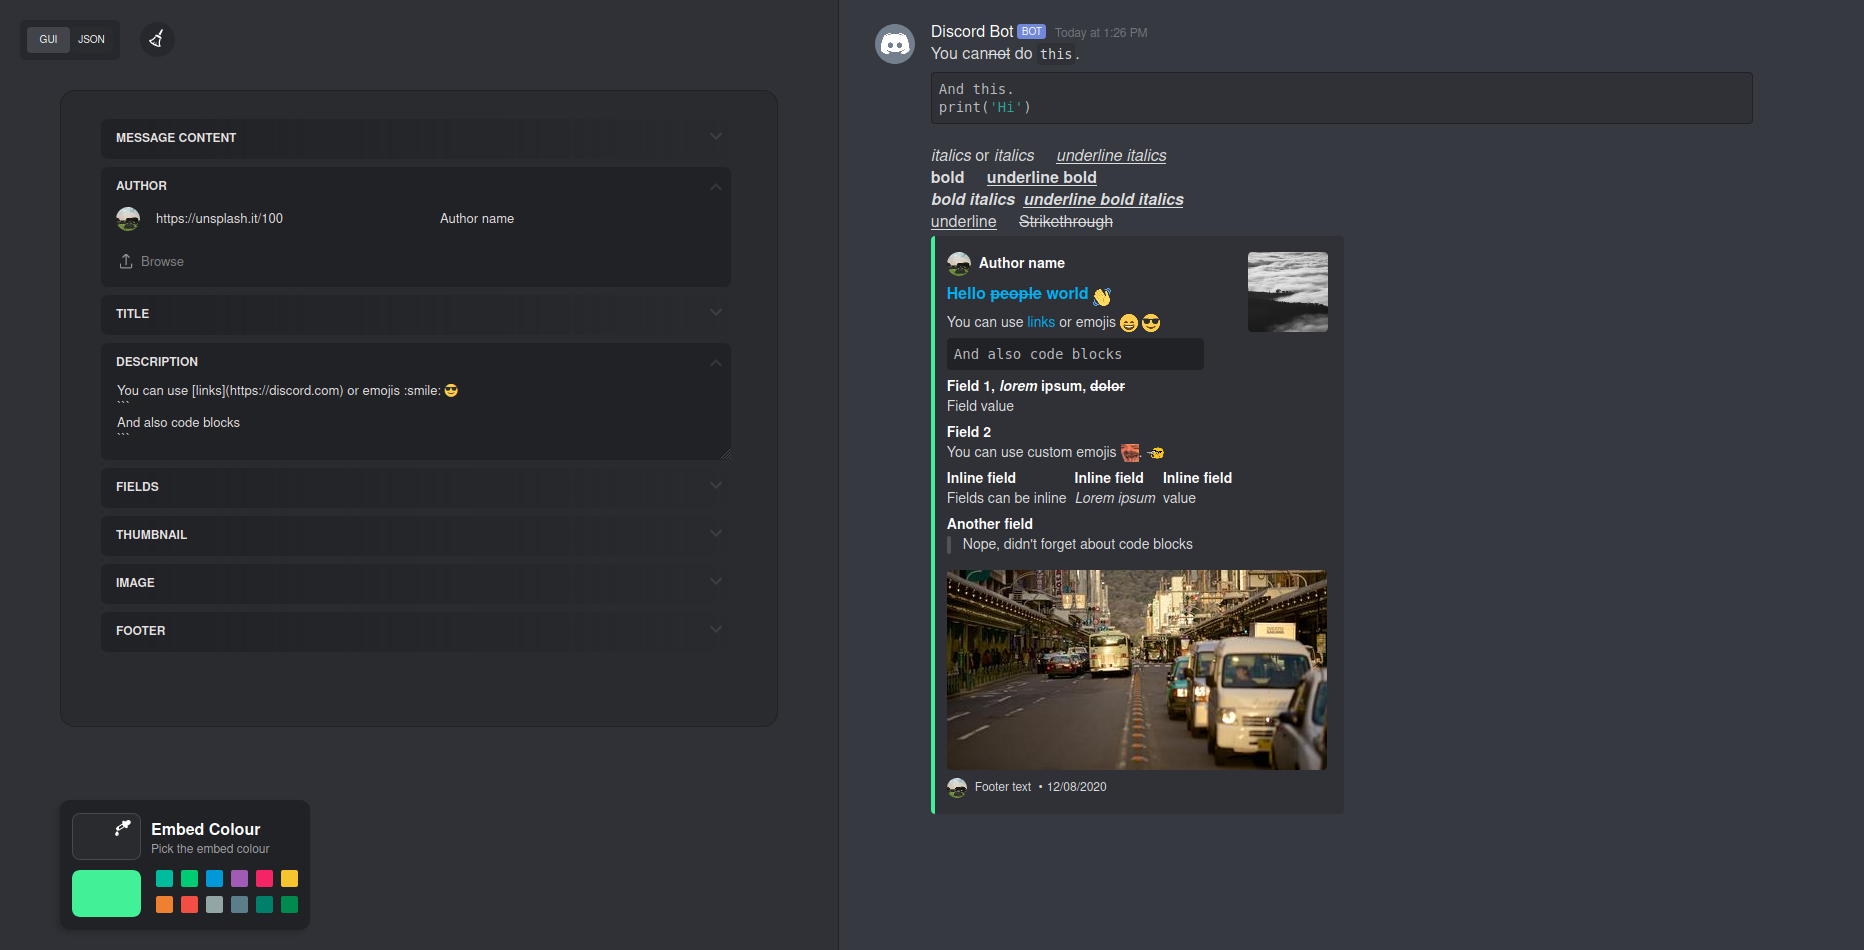
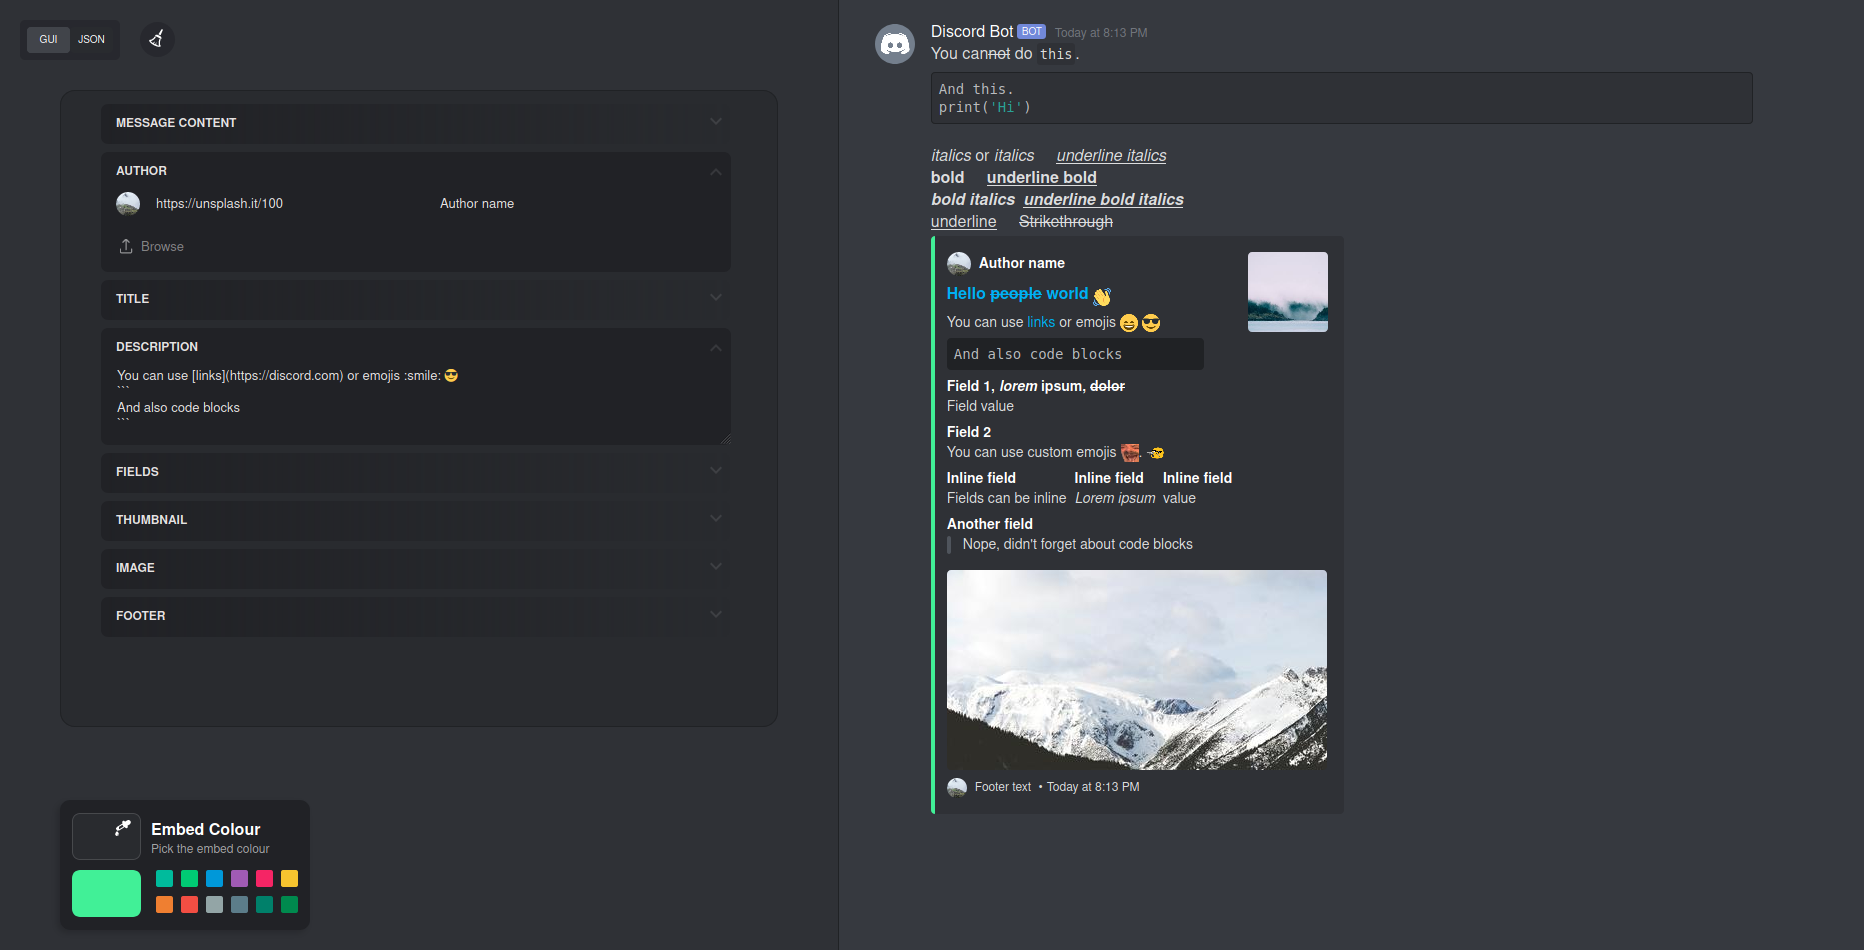
Use current time in timestamp

diff --git a/assets/js/index.js b/assets/js/index.js
@@ -15,7 +15,7 @@ var activeFields, colNum = 1, num = 0,
             title: "Hello ~~people~~ world :wave:",
             description: "You can use [links](https://discord.com) or emojis :smile: 😎\n```\nAnd also code blocks\n```",
             color: 4321431,
-            timestamp: "2020-12-08T13:37:35.401Z",
+            timestamp: new Date().toISOString(),
             url: "https://discord.com",
             author: {
                 name: "Author name",
